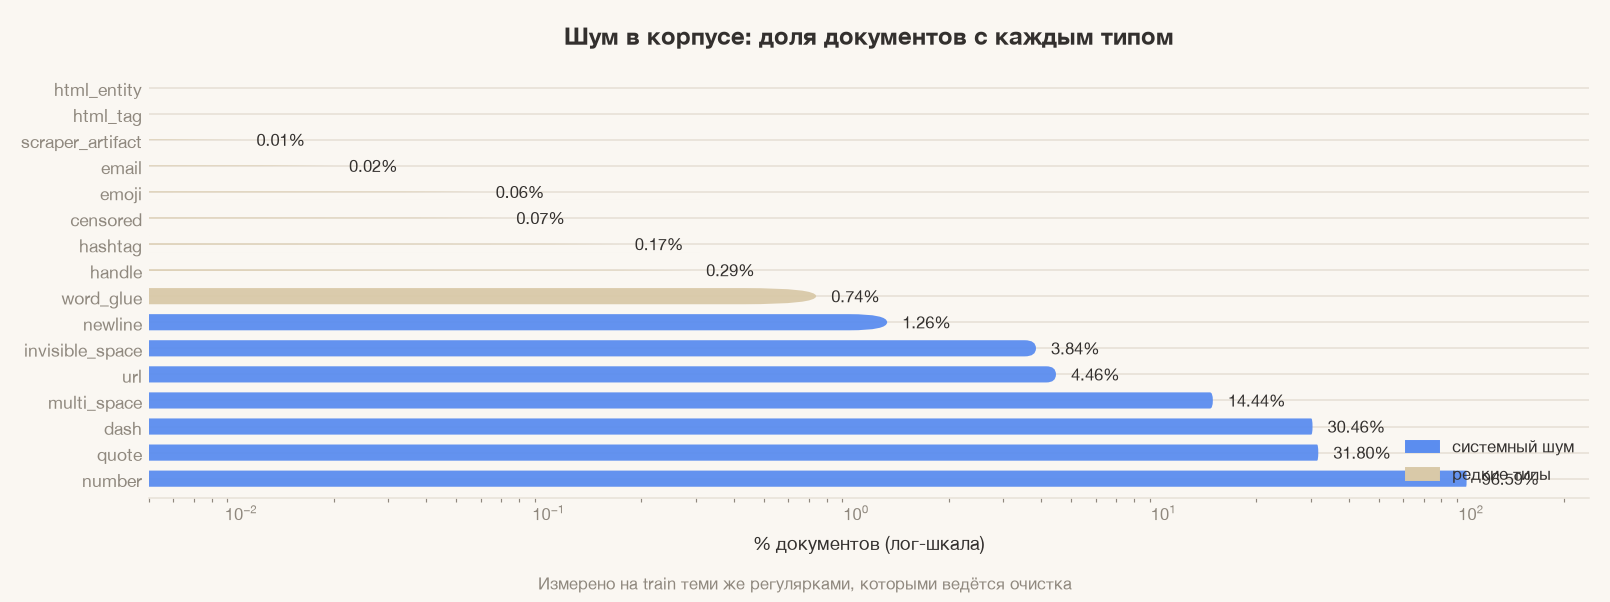
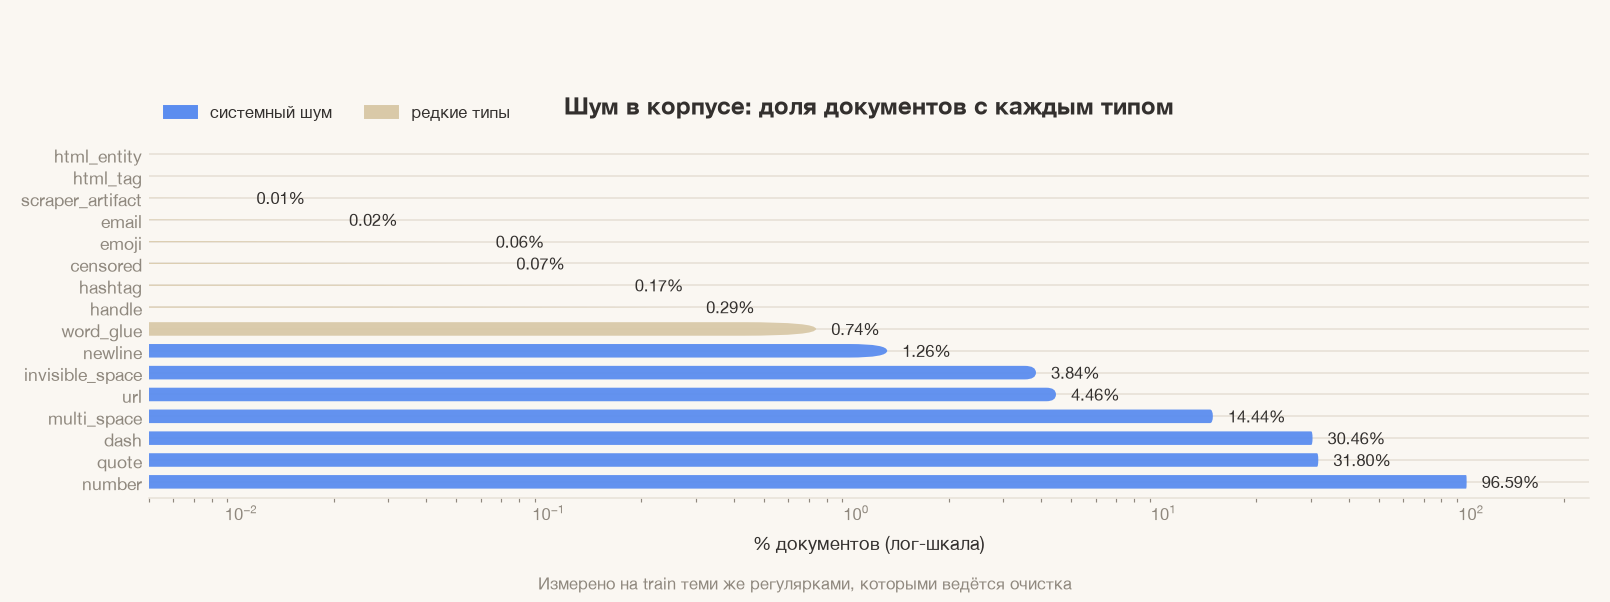
Фикс графиков: легенда шума над графиком, проценты словаря внутри баров

diff --git a/danila-kurz/src/textkit/plots.py b/danila-kurz/src/textkit/plots.py
@@ -105,12 +105,14 @@ def plot_noise(metrics: dict, out: Path) -> None:
           value_offset_frac=0.12)
     ax.set_xlabel("% документов (лог-шкала)")
     from matplotlib.patches import Patch
+    # Легенда — над графиком, в две колонки: внутри осей она наезжает на бары.
     ax.legend(
         handles=[Patch(color=C_BLUE, label="системный шум"),
                  Patch(color=C_SAND, label="редкие типы")],
-        loc="lower right", frameon=False, fontsize=8.5,
+        loc="upper left", bbox_to_anchor=(0.0, 1.14), ncol=2,
+        frameon=False, fontsize=8.5,
     )
-    fig.tight_layout(rect=(0, 0.045, 1, 1))
+    fig.tight_layout(rect=(0, 0.045, 1, 0.90))
     caption(fig, "Измерено на train теми же регулярками, которыми ведётся очистка")
     fig.savefig(out, dpi=140)
     plt.close(fig)
@@ -129,12 +131,15 @@ def plot_vocab(metrics: dict, out: Path) -> None:
         colors=[C_BLUE, C_TEAL, C_PEACH],
     )
     ax.set_ylabel("уникальных токенов")
-    ax.text(1, vocab["stem"] * 1.06,
-            f"−{int((1 - vocab['stem_ratio']) * 100)} %", ha="center",
-            color=C_TEAL, fontsize=9, fontweight="bold")
-    ax.text(2, vocab["lemma"] * 1.06,
-            f"−{int((1 - vocab['lemma_ratio']) * 100)} %", ha="center",
-            color=C_PEACH, fontsize=9, fontweight="bold")
+    # Проценты — внутри баров, чтобы не спорить с числами над ними.
+    # Тёмный текст: белый на светлых пастельных барах теряет контраст.
+    for i, key in enumerate(("stem", "lemma")):
+        ax.text(
+            i + 1, vocab[key] * 0.42,
+            f"−{round((1 - vocab[f'{key}_ratio']) * 100)} %",
+            ha="center", va="center",
+            fontsize=10.5, fontweight="bold", color=INK,
+        )
     fig.tight_layout(rect=(0, 0.045, 1, 1))
     caption(fig, "Один и тот же корпус train, порог частоты одинаковый")
     fig.savefig(out, dpi=140)
